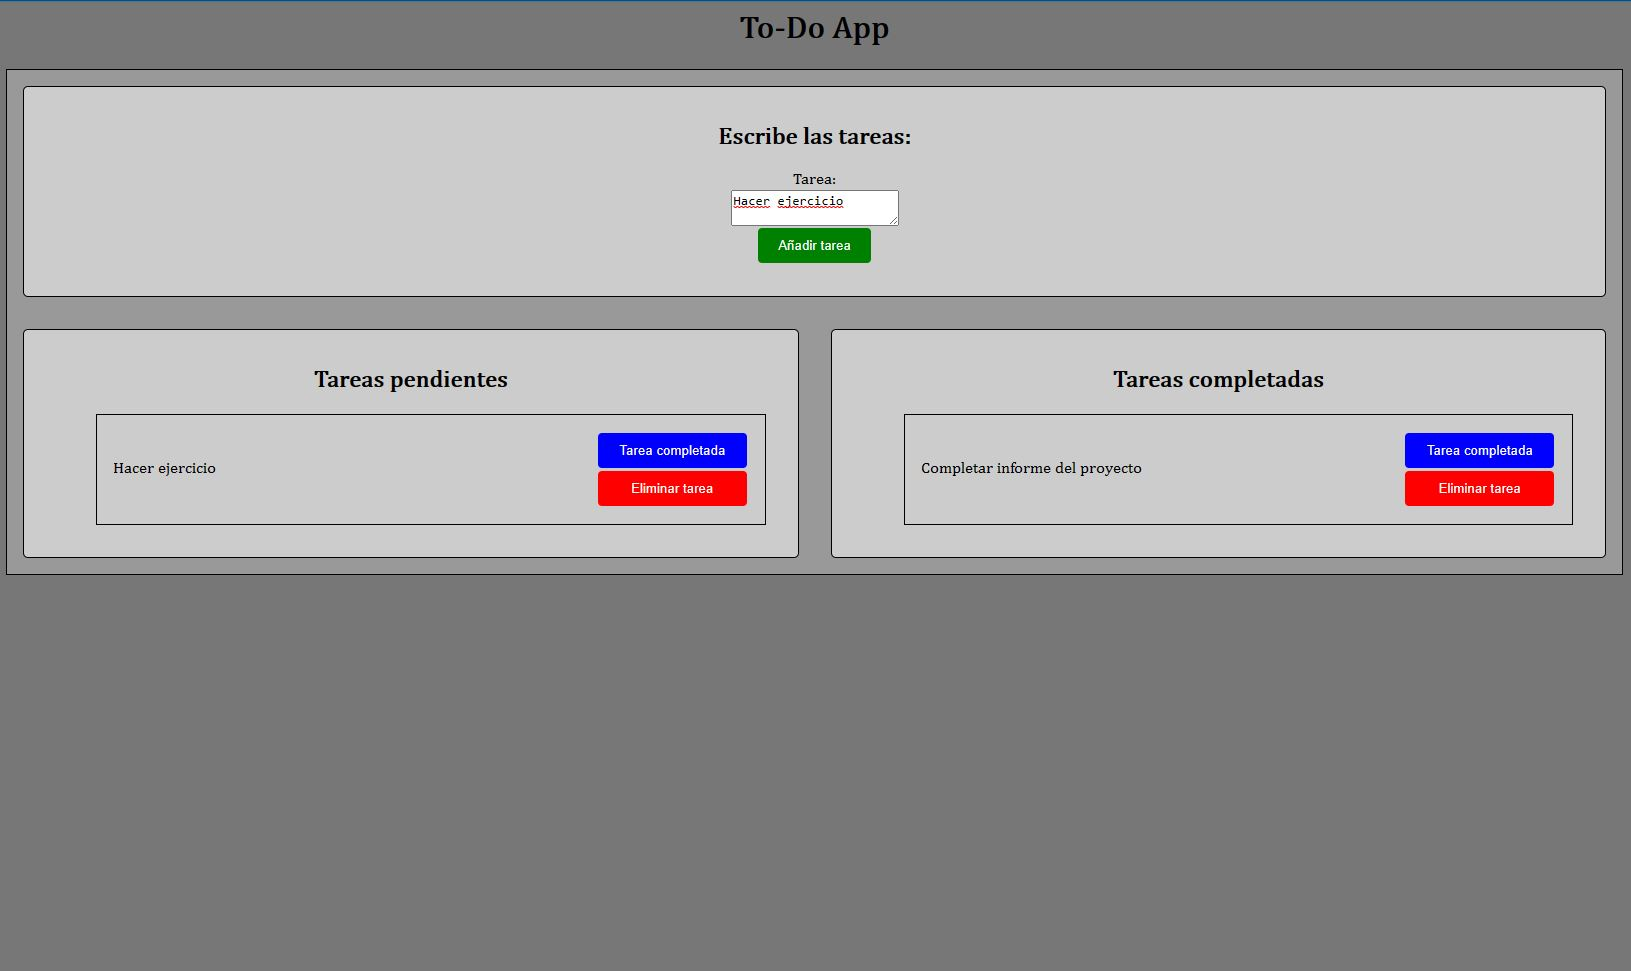
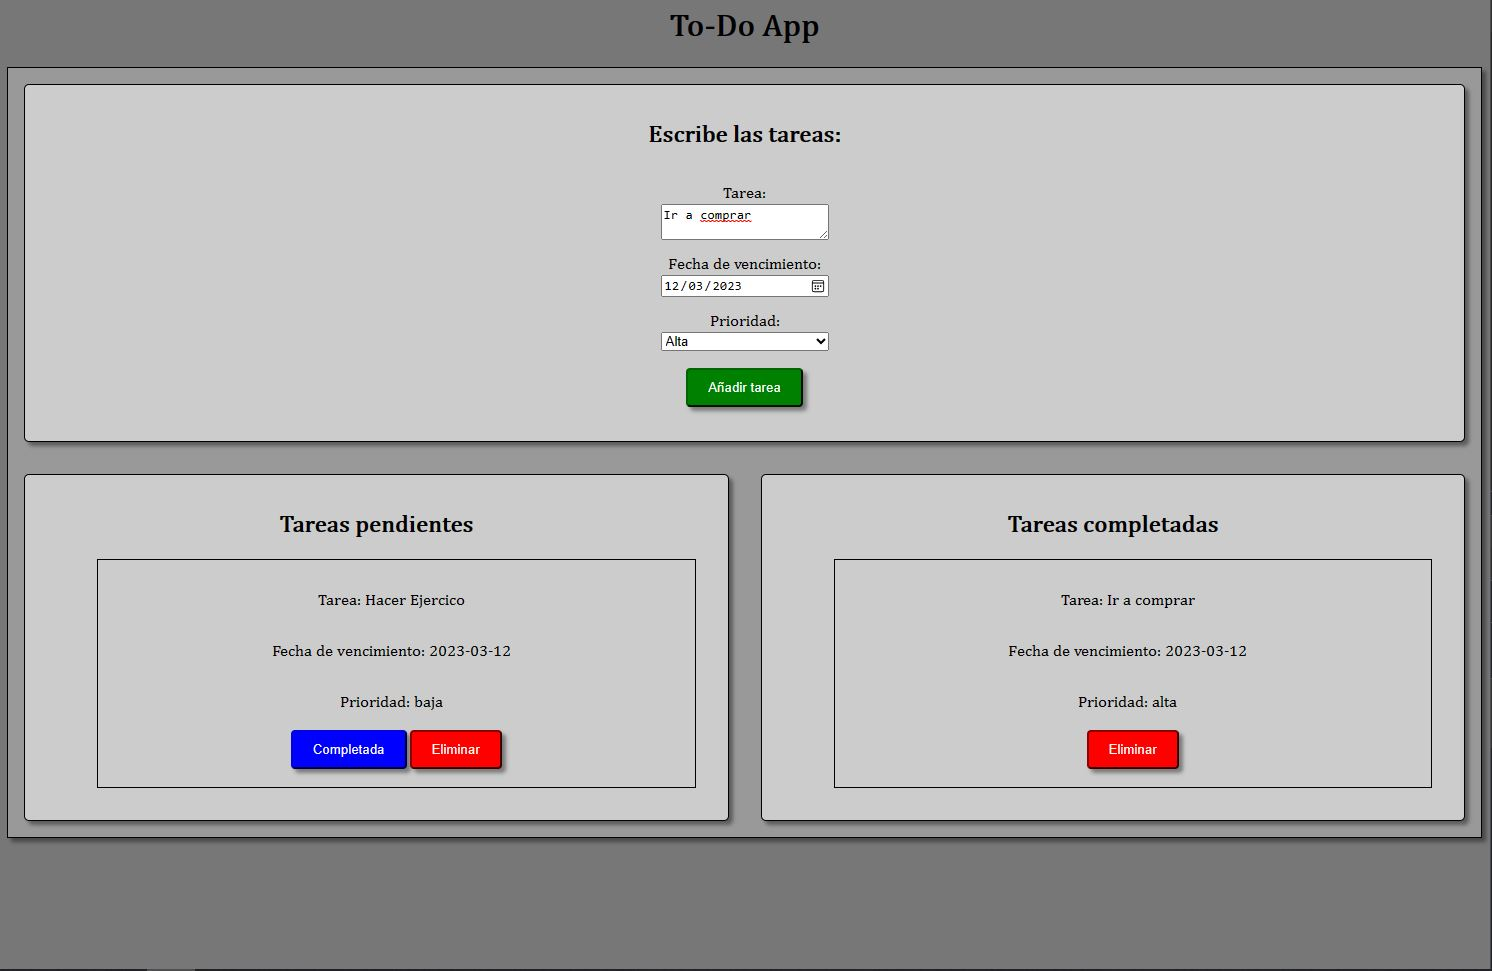
last changes

diff --git a/css/styles.css b/css/styles.css
@@ -14,7 +14,7 @@ body {
     display: grid;
     grid-template-columns: repeat(2, 1fr);
     background-color: #999999;
-
+    box-shadow: 4px 4px 4px rgba(0, 0, 0, 0.4);
 }
 
 .task-container>div {
@@ -22,7 +22,7 @@ body {
     padding: 1rem;
     border-radius: 5px;
     background-color: #CCCCCC;
-
+    box-shadow: 4px 4px 4px rgba(0, 0, 0, 0.4);
 }
 
 .task-form {
@@ -62,6 +62,7 @@ body {
     margin: 1rem;
     padding: 1rem;
     display: flex;
+    flex-direction: column;
     align-items: flex-start;
 }
 
@@ -74,7 +75,6 @@ body {
 
 .button-container {
     display: flex;
-    flex-direction: column;
     justify-content: center;
     align-self: center;
     align-items: flex-end;
@@ -84,12 +84,12 @@ button {
     display: inline-block;
     padding: 10px 20px;
     color: #fff;
-    border: none;
     margin: 0.1rem;
     border-radius: 4px;
     cursor: pointer;
     text-align: center;
     text-decoration: none;
+    box-shadow: 4px 4px 4px rgba(0, 0, 0, 0.4);
 }
 
 .button-container button:hover,
@@ -100,22 +100,26 @@ button {
 
 .button-container button {
     width: 100%;
+
 }
 
 
 #buttonAdd {
     background-color: green;
+    border-color: darkgreen;
 }
 
 
 .complete {
     background-color: blue;
+    border-color: darkblue;
 }
 
 
 
 .delete {
     background-color: red;
+    border-color: darkred;
 }
 
 
